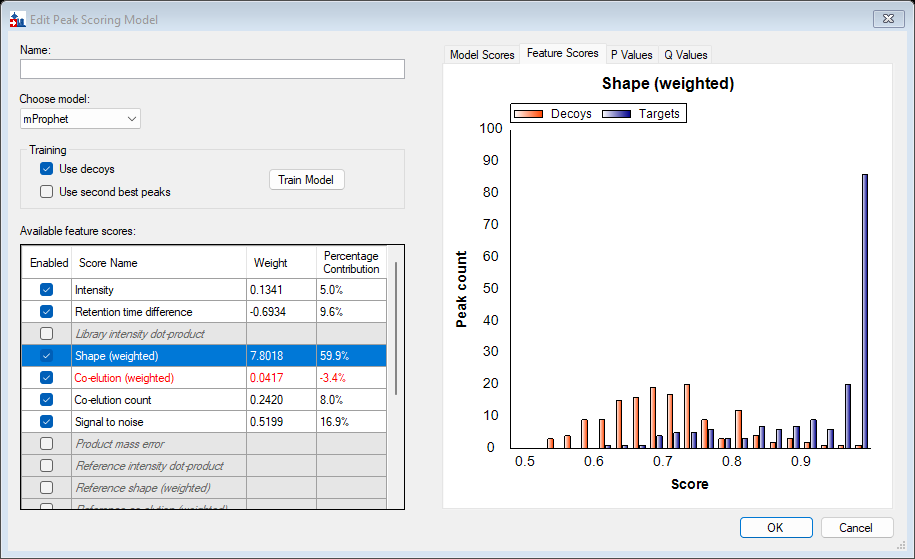
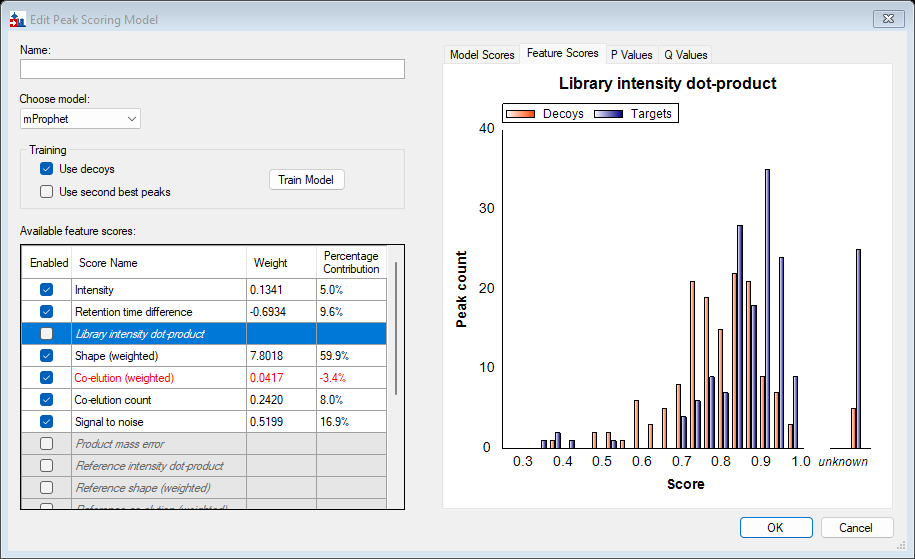
Rename to ScreenshotGeneratingTest

diff --git a/pwiz_tools/Skyline/TestTutorial/PeakPickingTutorialTest.cs b/pwiz_tools/Skyline/TestTutorial/PeakPickingTutorialTest.cs
@@ -45,7 +45,7 @@ using pwiz.SkylineTestUtil;
 namespace pwiz.SkylineTestTutorial
 {
     [TestClass]
-    public class PeakPickingTutorialTest : DocumentationGeneratorTest
+    public class PeakPickingTutorialTest : ScreenshotGeneratingTest
     {
         private readonly string[] _importFiles =
             {
@@ -202,14 +202,13 @@ namespace pwiz.SkylineTestTutorial
             RunUI(() => Assert.AreEqual(0.5992, editDlg.PeakCalculatorsGrid.Items[3].PercentContribution ?? 0, 0.005));
 
             RunUI(() => editDlg.SelectedGraphTab = 2);
-            // TODO(nicksh): Save an emf instead of a png
             RunUISaveScreenshot(editDlg.ZedGraphPValues, "EditPeakScoringModelFormPValueGraph");
 
             RunUI(() => editDlg.SelectedGraphTab = 3);
             RunUISaveScreenshot(editDlg.ZedGraphQValues, "EditPeakScoringModelFormQValueGraph");
 
             RunUI(() => editDlg.SelectedGraphTab = 1);
-            RunUI(() => editDlg.PeakCalculatorsGrid.SelectRow(3));
+            RunUI(() => editDlg.PeakCalculatorsGrid.SelectRow(2));
             RunUISaveScreenshot(editDlg, "EditPeakScoringModelFormFeatureScore");
 
             RunUI(() =>
@@ -245,10 +244,10 @@ namespace pwiz.SkylineTestTutorial
                 var image = TakeScreenShot(SkylineWindow);
                 
                 // Crop the image so that it starts at the top of the Find Results window
-                int offset = findResultsForm.PointToScreen(new Point(0, 0)).Y - SkylineWindow.Location.Y;
+                int yOffset = findResultsForm.PointToScreen(new Point(0, 0)).Y - SkylineWindow.Location.Y;
                 var cropRect = new Rectangle(0,
-                    offset, image.Width,
-                    image.Height - offset);
+                    yOffset, image.Width,
+                    image.Height - yOffset);
                 var croppedImage = image.Clone(cropRect, image.PixelFormat);
                 
                 SaveImage(croppedImage, ImageFormat.Png, "FindResultsViewClippedFromMainWindow.png");
@@ -259,7 +258,6 @@ namespace pwiz.SkylineTestTutorial
             var missingPeptides = new List<string> { "LGGNEQVTR", "IPVDSIYSPVLK", "YFNDGDIVEGTIVK", 
                                                      "DFDSLGTLR", "GGYAGMLVGSVGETVAQLAR", "GGYAGMLVGSVGETVAQLAR"};
             var isDecoys = new List<bool> {false, false, false, false, false, true};
-
             RunUI(() =>
             {
                 findResultsForm = FormUtil.OpenForms.OfType<FindResultsForm>().FirstOrDefault();

diff --git a/pwiz_tools/Skyline/TestUtil/ScreenshotGeneratingTest.cs b/pwiz_tools/Skyline/TestUtil/ScreenshotGeneratingTest.cs
@@ -10,12 +10,12 @@ using Microsoft.VisualStudio.TestTools.UnitTesting;
 
 namespace pwiz.SkylineTestUtil
 {
-    public abstract class DocumentationGeneratorTest : AbstractFunctionalTestEx
+    public abstract class ScreenshotGeneratingTest : AbstractFunctionalTestEx
     {
         private HashSet<string> _savedImages = new HashSet<string>();
 
         protected StringWriter _resourceStringWriter;
-        protected DocumentationGeneratorTest()
+        protected ScreenshotGeneratingTest()
         {
             DocumentationStringBuilder = new StringBuilder();
             _resourceStringWriter = new StringWriter();
@@ -51,13 +51,14 @@ namespace pwiz.SkylineTestUtil
             Assert.IsTrue(_savedImages.Add(filename), "{0} has already been saved", filename);
             var imagesFolder = GetImagesFolder();
             Assert.IsTrue(Directory.Exists(imagesFolder), "Folder {0} does not exist", imagesFolder);
+            string fullPath = Path.Combine(imagesFolder, filename);
             try
             {
-                image.Save(Path.Combine(imagesFolder, filename), imageFormat);
+                image.Save(fullPath, imageFormat);
             }
             catch (Exception e)
             {
-                throw new IOException("Error saving to " + filename, e);
+                throw new IOException("Error saving to " + fullPath, e);
             }
         }
 
